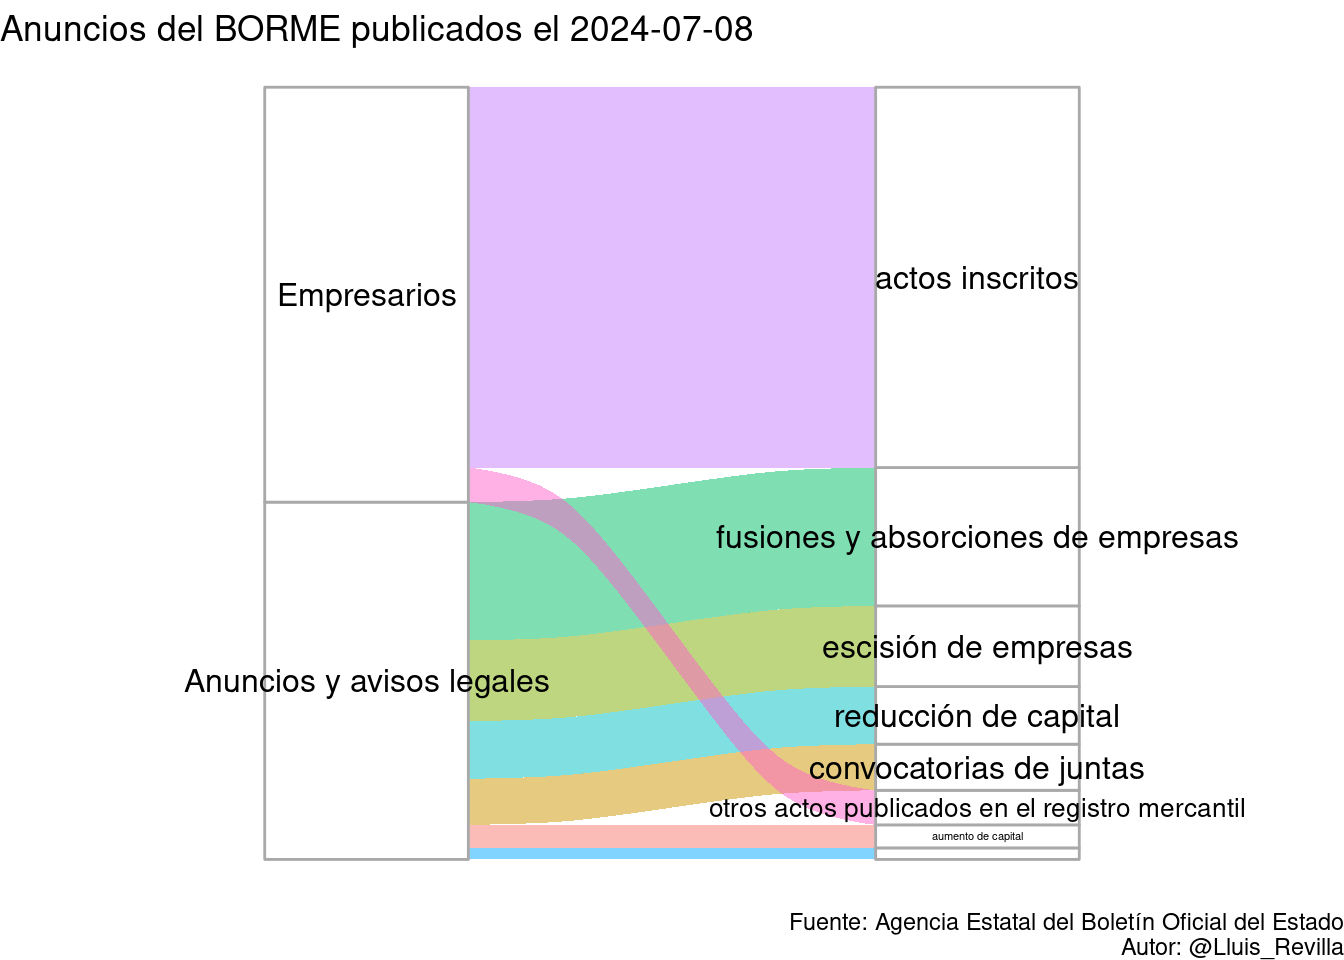
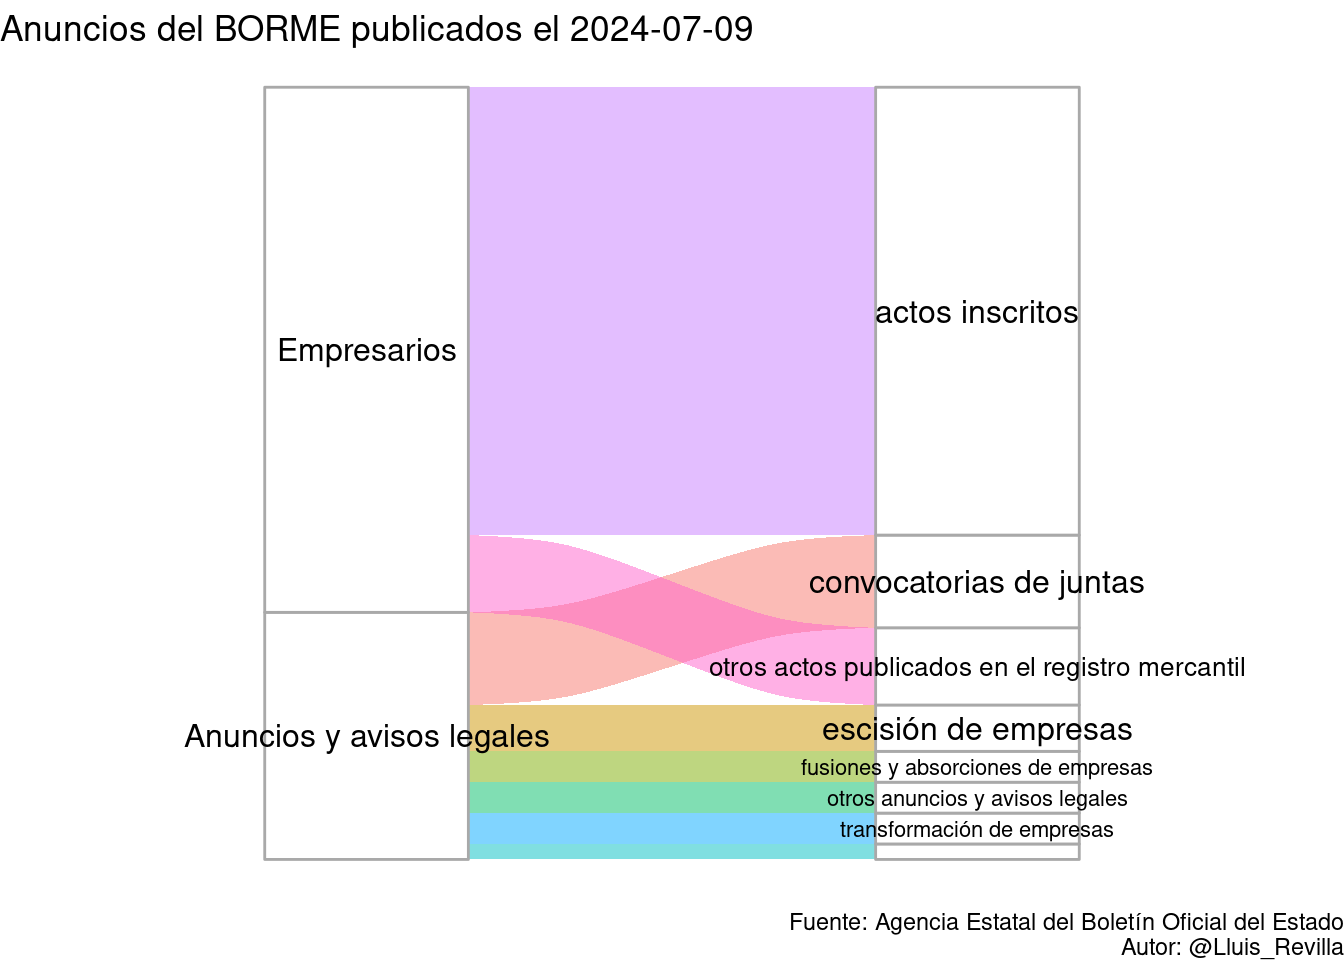
Update BORME

Changed region(s): [[0.125, 0.4688, 0.9375, 0.9062], [0.1875, 0.2812, 0.3438, 0.375], [0.6562, 0.2812, 0.8125, 0.3438]]

diff --git a/docs/last_BORME.html b/docs/last_BORME.html
@@ -379,14 +379,14 @@ $(document).ready(function () {
 
 <div id="resumen-gráfico" class="section level1">
 <h1>Resumen gráfico</h1>
-<p>Esta página web contiene el último sumario del BORME publicado el 2024-07-08 con 67 publicaciones.</p>
+<p>Esta página web contiene el último sumario del BORME publicado el 2024-07-09 con 50 publicaciones.</p>
 <p><img src="last_BORME_files/figure-html/graphics-1.png" width="672" /></p>
 </div>
 <div id="tabla-de-publicaciones" class="section level1">
 <h1>Tabla de publicaciones</h1>
 <p>Aquí está la tabla completa con enlaces a las publicaciones:</p>
-<div class="datatables html-widget html-fill-item-overflow-hidden html-fill-item" id="htmlwidget-dcfdce7b7cf2d7245e98" style="width:100%;height:auto;"></div>
-<script type="application/json" data-for="htmlwidget-dcfdce7b7cf2d7245e98">{"x":{"filter":"top","vertical":false,"filterHTML":"<tr>\n  <td><\/td>\n  <td data-type=\"character\" style=\"vertical-align: top;\">\n    <div class=\"form-group has-feedback\" style=\"margin-bottom: auto;\">\n      <input type=\"search\" placeholder=\"All\" class=\"form-control\" style=\"width: 100%;\"/>\n      <span class=\"glyphicon glyphicon-remove-circle form-control-feedback\"><\/span>\n    <\/div>\n  <\/td>\n  <td data-type=\"character\" style=\"vertical-align: top;\">\n    <div class=\"form-group has-feedback\" style=\"margin-bottom: auto;\">\n      <input type=\"search\" placeholder=\"All\" class=\"form-control\" style=\"width: 100%;\"/>\n      <span class=\"glyphicon glyphicon-remove-circle form-control-feedback\"><\/span>\n    <\/div>\n  <\/td>\n  <td data-type=\"character\" style=\"vertical-align: top;\">\n    <div class=\"form-group has-feedback\" style=\"margin-bottom: auto;\">\n      <input type=\"search\" placeholder=\"All\" class=\"form-control\" style=\"width: 100%;\" disabled=\"\"/>\n      <span class=\"glyphicon glyphicon-remove-circle form-control-feedback\"><\/span>\n    <\/div>\n  <\/td>\n  <td data-type=\"character\" style=\"vertical-align: top;\">\n    <div class=\"form-group has-feedback\" style=\"margin-bottom: auto;\">\n      <input type=\"search\" placeholder=\"All\" class=\"form-control\" style=\"width: 100%;\"/>\n      <span class=\"glyphicon glyphicon-remove-circle form-control-feedback\"><\/span>\n    <\/div>\n  <\/td>\n<\/tr>","data":[["1","2","3","4","5","6","7","8","9","10","11","12","13","14","15","16","17","18","19","20","21","22","23","24","25","26","27","28","29","30","31","32","33","34","35","36","37","38","39","40","41","42","43","44","45","46","47","48","49","50","51","52","53","54","55","56","57","58","59","60","61","62","63","64","65","66","67"],["SECCIÓN PRIMERA. Empresarios","SECCIÓN PRIMERA. Empresarios","SECCIÓN PRIMERA. Empresarios","SECCIÓN PRIMERA. Empresarios","SECCIÓN PRIMERA. Empresarios","SECCIÓN PRIMERA. Empresarios","SECCIÓN PRIMERA. Empresarios","SECCIÓN PRIMERA. Empresarios","SECCIÓN PRIMERA. Empresarios","SECCIÓN PRIMERA. Empresarios","SECCIÓN PRIMERA. Empresarios","SECCIÓN PRIMERA. Empresarios","SECCIÓN PRIMERA. Empresarios","SECCIÓN PRIMERA. Empresarios","SECCIÓN PRIMERA. Empresarios","SECCIÓN PRIMERA. Empresarios","SECCIÓN PRIMERA. Empresarios","SECCIÓN PRIMERA. Empresarios","SECCIÓN PRIMERA. Empresarios","SECCIÓN PRIMERA. Empresarios","SECCIÓN PRIMERA. Empresarios","SECCIÓN PRIMERA. Empresarios","SECCIÓN PRIMERA. Empresarios","SECCIÓN PRIMERA. Empresarios","SECCIÓN PRIMERA. Empresarios","SECCIÓN PRIMERA. Empresarios","SECCIÓN PRIMERA. Empresarios","SECCIÓN PRIMERA. Empresarios","SECCIÓN PRIMERA. Empresarios","SECCIÓN PRIMERA. Empresarios","SECCIÓN PRIMERA. Empresarios","SECCIÓN PRIMERA. Empresarios","SECCIÓN PRIMERA. Empresarios","SECCIÓN PRIMERA. Empresarios","SECCIÓN PRIMERA. Empresarios","SECCIÓN PRIMERA. Empresarios","SECCIÓN SEGUNDA. Anuncios y avisos legales","SECCIÓN SEGUNDA. Anuncios y avisos legales","SECCIÓN SEGUNDA. Anuncios y avisos legales","SECCIÓN SEGUNDA. Anuncios y avisos legales","SECCIÓN SEGUNDA. Anuncios y avisos legales","SECCIÓN SEGUNDA. Anuncios y avisos legales","SECCIÓN SEGUNDA. Anuncios y avisos legales","SECCIÓN SEGUNDA. Anuncios y avisos legales","SECCIÓN SEGUNDA. Anuncios y avisos legales","SECCIÓN SEGUNDA. Anuncios y avisos legales","SECCIÓN SEGUNDA. Anuncios y avisos legales","SECCIÓN SEGUNDA. Anuncios y avisos legales","SECCIÓN SEGUNDA. Anuncios y avisos legales","SECCIÓN SEGUNDA. Anuncios y avisos legales","SECCIÓN SEGUNDA. Anuncios y avisos legales","SECCIÓN SEGUNDA. Anuncios y avisos legales","SECCIÓN SEGUNDA. Anuncios y avisos legales","SECCIÓN SEGUNDA. Anuncios y avisos legales","SECCIÓN SEGUNDA. Anuncios y avisos legales","SECCIÓN SEGUNDA. Anuncios y avisos legales","SECCIÓN SEGUNDA. Anuncios y avisos legales","SECCIÓN SEGUNDA. Anuncios y avisos legales","SECCIÓN SEGUNDA. Anuncios y avisos legales","SECCIÓN SEGUNDA. Anuncios y avisos legales","SECCIÓN SEGUNDA. Anuncios y avisos legales","SECCIÓN SEGUNDA. Anuncios y avisos legales","SECCIÓN SEGUNDA. Anuncios y avisos legales","SECCIÓN SEGUNDA. Anuncios y avisos legales","SECCIÓN SEGUNDA. Anuncios y avisos legales","SECCIÓN SEGUNDA. Anuncios y avisos legales","SECCIÓN SEGUNDA. Anuncios y avisos legales"],["Actos inscritos","Actos inscritos","Actos inscritos","Actos inscritos","Actos inscritos","Actos inscritos","Actos inscritos","Actos inscritos","Actos inscritos","Actos inscritos","Actos inscritos","Actos inscritos","Actos inscritos","Actos inscritos","Actos inscritos","Actos inscritos","Actos inscritos","Actos inscritos","Actos inscritos","Actos inscritos","Actos inscritos","Actos inscritos","Actos inscritos","Actos inscritos","Actos inscritos","Actos inscritos","Actos inscritos","Actos inscritos","Actos inscritos","Actos inscritos","Actos inscritos","Actos inscritos","Actos inscritos","Otros actos publicados en el Registro Mercantil","Otros actos publicados en el Registro Mercantil","Otros actos publicados en el Registro Mercantil","CONVOCATORIAS DE JUNTAS","CONVOCATORIAS DE JUNTAS","CONVOCATORIAS DE JUNTAS","CONVOCATORIAS DE JUNTAS","FUSIONES Y ABSORCIONES DE EMPRESAS","FUSIONES Y ABSORCIONES DE EMPRESAS","FUSIONES Y ABSORCIONES DE EMPRESAS","FUSIONES Y ABSORCIONES DE EMPRESAS","FUSIONES Y ABSORCIONES DE EMPRESAS","FUSIONES Y ABSORCIONES DE EMPRESAS","FUSIONES Y ABSORCIONES DE EMPRESAS","FUSIONES Y ABSORCIONES DE EMPRESAS","FUSIONES Y ABSORCIONES DE EMPRESAS","FUSIONES Y ABSORCIONES DE EMPRESAS","FUSIONES Y ABSORCIONES DE EMPRESAS","FUSIONES Y ABSORCIONES DE EMPRESAS","ESCISIÓN DE EMPRESAS","ESCISIÓN DE EMPRESAS","ESCISIÓN DE EMPRESAS","ESCISIÓN DE EMPRESAS","ESCISIÓN DE EMPRESAS","ESCISIÓN DE EMPRESAS","ESCISIÓN DE EMPRESAS","TRANSFORMACIÓN DE EMPRESAS","AUMENTO DE CAPITAL","AUMENTO DE CAPITAL","REDUCCIÓN DE CAPITAL","REDUCCIÓN DE CAPITAL","REDUCCIÓN DE CAPITAL","REDUCCIÓN DE CAPITAL","REDUCCIÓN DE CAPITAL"],[null,null,null,null,null,null,null,null,null,null,null,null,null,null,null,null,null,null,null,null,null,null,null,null,null,null,null,null,null,null,null,null,null,null,null,null,null,null,null,null,null,null,null,null,null,null,null,null,null,null,null,null,null,null,null,null,null,null,null,null,null,null,null,null,null,null,null],["BORME-A-2024-130-02","BORME-A-2024-130-03","BORME-A-2024-130-04","BORME-A-2024-130-06","BORME-A-2024-130-07","BORME-A-2024-130-08","BORME-A-2024-130-09","BORME-A-2024-130-12","BORME-A-2024-130-15","BORME-A-2024-130-17","BORME-A-2024-130-18","BORME-A-2024-130-19","BORME-A-2024-130-22","BORME-A-2024-130-23","BORME-A-2024-130-24","BORME-A-2024-130-25","BORME-A-2024-130-26","BORME-A-2024-130-28","BORME-A-2024-130-29","BORME-A-2024-130-30","BORME-A-2024-130-31","BORME-A-2024-130-33","BORME-A-2024-130-34","BORME-A-2024-130-35","BORME-A-2024-130-36","BORME-A-2024-130-43","BORME-A-2024-130-44","BORME-A-2024-130-45","BORME-A-2024-130-46","BORME-A-2024-130-47","BORME-A-2024-130-50","BORME-A-2024-130-52","BORME-A-2024-130-99","BORME-B-2024-130-35","BORME-B-2024-130-46","BORME-B-2024-130-50","BORME-C-2024-4186","BORME-C-2024-4187","BORME-C-2024-4188","BORME-C-2024-4189","BORME-C-2024-4190","BORME-C-2024-4191","BORME-C-2024-4192","BORME-C-2024-4193","BORME-C-2024-4194","BORME-C-2024-4195","BORME-C-2024-4196","BORME-C-2024-4197","BORME-C-2024-4198","BORME-C-2024-4199","BORME-C-2024-4200","BORME-C-2024-4201","BORME-C-2024-4202","BORME-C-2024-4203","BORME-C-2024-4204","BORME-C-2024-4205","BORME-C-2024-4206","BORME-C-2024-4207","BORME-C-2024-4208","BORME-C-2024-4209","BORME-C-2024-4210","BORME-C-2024-4211","BORME-C-2024-4212","BORME-C-2024-4213","BORME-C-2024-4214","BORME-C-2024-4215","BORME-C-2024-4216"]],"container":"<table class=\"display\">\n  <thead>\n    <tr>\n      <th> <\/th>\n      <th>Sección<\/th>\n      <th>Emisor<\/th>\n      <th>Texto<\/th>\n      <th>Link<\/th>\n    <\/tr>\n  <\/thead>\n<\/table>","options":{"pageLength":10,"autoWidth":true,"columnDefs":[{"orderable":false,"targets":0},{"name":" ","targets":0},{"name":"Sección","targets":1},{"name":"Emisor","targets":2},{"name":"Texto","targets":3},{"name":"Link","targets":4}],"order":[],"orderClasses":false,"orderCellsTop":true}},"evals":[],"jsHooks":[]}</script>
+<div class="datatables html-widget html-fill-item-overflow-hidden html-fill-item" id="htmlwidget-87260b5c14312a98602e" style="width:100%;height:auto;"></div>
+<script type="application/json" data-for="htmlwidget-87260b5c14312a98602e">{"x":{"filter":"top","vertical":false,"filterHTML":"<tr>\n  <td><\/td>\n  <td data-type=\"character\" style=\"vertical-align: top;\">\n    <div class=\"form-group has-feedback\" style=\"margin-bottom: auto;\">\n      <input type=\"search\" placeholder=\"All\" class=\"form-control\" style=\"width: 100%;\"/>\n      <span class=\"glyphicon glyphicon-remove-circle form-control-feedback\"><\/span>\n    <\/div>\n  <\/td>\n  <td data-type=\"character\" style=\"vertical-align: top;\">\n    <div class=\"form-group has-feedback\" style=\"margin-bottom: auto;\">\n      <input type=\"search\" placeholder=\"All\" class=\"form-control\" style=\"width: 100%;\"/>\n      <span class=\"glyphicon glyphicon-remove-circle form-control-feedback\"><\/span>\n    <\/div>\n  <\/td>\n  <td data-type=\"character\" style=\"vertical-align: top;\">\n    <div class=\"form-group has-feedback\" style=\"margin-bottom: auto;\">\n      <input type=\"search\" placeholder=\"All\" class=\"form-control\" style=\"width: 100%;\" disabled=\"\"/>\n      <span class=\"glyphicon glyphicon-remove-circle form-control-feedback\"><\/span>\n    <\/div>\n  <\/td>\n  <td data-type=\"character\" style=\"vertical-align: top;\">\n    <div class=\"form-group has-feedback\" style=\"margin-bottom: auto;\">\n      <input type=\"search\" placeholder=\"All\" class=\"form-control\" style=\"width: 100%;\"/>\n      <span class=\"glyphicon glyphicon-remove-circle form-control-feedback\"><\/span>\n    <\/div>\n  <\/td>\n<\/tr>","data":[["1","2","3","4","5","6","7","8","9","10","11","12","13","14","15","16","17","18","19","20","21","22","23","24","25","26","27","28","29","30","31","32","33","34","35","36","37","38","39","40","41","42","43","44","45","46","47","48","49","50"],["SECCIÓN PRIMERA. Empresarios","SECCIÓN PRIMERA. Empresarios","SECCIÓN PRIMERA. Empresarios","SECCIÓN PRIMERA. Empresarios","SECCIÓN PRIMERA. Empresarios","SECCIÓN PRIMERA. Empresarios","SECCIÓN PRIMERA. Empresarios","SECCIÓN PRIMERA. Empresarios","SECCIÓN PRIMERA. Empresarios","SECCIÓN PRIMERA. Empresarios","SECCIÓN PRIMERA. Empresarios","SECCIÓN PRIMERA. Empresarios","SECCIÓN PRIMERA. Empresarios","SECCIÓN PRIMERA. Empresarios","SECCIÓN PRIMERA. Empresarios","SECCIÓN PRIMERA. Empresarios","SECCIÓN PRIMERA. Empresarios","SECCIÓN PRIMERA. Empresarios","SECCIÓN PRIMERA. Empresarios","SECCIÓN PRIMERA. Empresarios","SECCIÓN PRIMERA. Empresarios","SECCIÓN PRIMERA. Empresarios","SECCIÓN PRIMERA. Empresarios","SECCIÓN PRIMERA. Empresarios","SECCIÓN PRIMERA. Empresarios","SECCIÓN PRIMERA. Empresarios","SECCIÓN PRIMERA. Empresarios","SECCIÓN PRIMERA. Empresarios","SECCIÓN PRIMERA. Empresarios","SECCIÓN PRIMERA. Empresarios","SECCIÓN PRIMERA. Empresarios","SECCIÓN PRIMERA. Empresarios","SECCIÓN PRIMERA. Empresarios","SECCIÓN PRIMERA. Empresarios","SECCIÓN SEGUNDA. Anuncios y avisos legales","SECCIÓN SEGUNDA. Anuncios y avisos legales","SECCIÓN SEGUNDA. Anuncios y avisos legales","SECCIÓN SEGUNDA. Anuncios y avisos legales","SECCIÓN SEGUNDA. Anuncios y avisos legales","SECCIÓN SEGUNDA. Anuncios y avisos legales","SECCIÓN SEGUNDA. Anuncios y avisos legales","SECCIÓN SEGUNDA. Anuncios y avisos legales","SECCIÓN SEGUNDA. Anuncios y avisos legales","SECCIÓN SEGUNDA. Anuncios y avisos legales","SECCIÓN SEGUNDA. Anuncios y avisos legales","SECCIÓN SEGUNDA. Anuncios y avisos legales","SECCIÓN SEGUNDA. Anuncios y avisos legales","SECCIÓN SEGUNDA. Anuncios y avisos legales","SECCIÓN SEGUNDA. Anuncios y avisos legales","SECCIÓN SEGUNDA. Anuncios y avisos legales"],["Actos inscritos","Actos inscritos","Actos inscritos","Actos inscritos","Actos inscritos","Actos inscritos","Actos inscritos","Actos inscritos","Actos inscritos","Actos inscritos","Actos inscritos","Actos inscritos","Actos inscritos","Actos inscritos","Actos inscritos","Actos inscritos","Actos inscritos","Actos inscritos","Actos inscritos","Actos inscritos","Actos inscritos","Actos inscritos","Actos inscritos","Actos inscritos","Actos inscritos","Actos inscritos","Actos inscritos","Actos inscritos","Actos inscritos","Otros actos publicados en el Registro Mercantil","Otros actos publicados en el Registro Mercantil","Otros actos publicados en el Registro Mercantil","Otros actos publicados en el Registro Mercantil","Otros actos publicados en el Registro Mercantil","CONVOCATORIAS DE JUNTAS","CONVOCATORIAS DE JUNTAS","CONVOCATORIAS DE JUNTAS","CONVOCATORIAS DE JUNTAS","CONVOCATORIAS DE JUNTAS","CONVOCATORIAS DE JUNTAS","FUSIONES Y ABSORCIONES DE EMPRESAS","FUSIONES Y ABSORCIONES DE EMPRESAS","ESCISIÓN DE EMPRESAS","ESCISIÓN DE EMPRESAS","ESCISIÓN DE EMPRESAS","TRANSFORMACIÓN DE EMPRESAS","TRANSFORMACIÓN DE EMPRESAS","REDUCCIÓN DE CAPITAL","OTROS ANUNCIOS Y AVISOS LEGALES","OTROS ANUNCIOS Y AVISOS LEGALES"],[null,null,null,null,null,null,null,null,null,null,null,null,null,null,null,null,null,null,null,null,null,null,null,null,null,null,null,null,null,null,null,null,null,null,null,null,null,null,null,null,null,null,null,null,null,null,null,null,null,null],["BORME-A-2024-131-02","BORME-A-2024-131-03","BORME-A-2024-131-06","BORME-A-2024-131-07","BORME-A-2024-131-08","BORME-A-2024-131-12","BORME-A-2024-131-13","BORME-A-2024-131-14","BORME-A-2024-131-15","BORME-A-2024-131-17","BORME-A-2024-131-18","BORME-A-2024-131-21","BORME-A-2024-131-23","BORME-A-2024-131-24","BORME-A-2024-131-27","BORME-A-2024-131-28","BORME-A-2024-131-29","BORME-A-2024-131-30","BORME-A-2024-131-31","BORME-A-2024-131-35","BORME-A-2024-131-36","BORME-A-2024-131-38","BORME-A-2024-131-40","BORME-A-2024-131-41","BORME-A-2024-131-45","BORME-A-2024-131-46","BORME-A-2024-131-47","BORME-A-2024-131-48","BORME-A-2024-131-99","BORME-B-2024-131-20","BORME-B-2024-131-27","BORME-B-2024-131-28","BORME-B-2024-131-29","BORME-B-2024-131-51","BORME-C-2024-4217","BORME-C-2024-4218","BORME-C-2024-4219","BORME-C-2024-4220","BORME-C-2024-4221","BORME-C-2024-4222","BORME-C-2024-4223","BORME-C-2024-4224","BORME-C-2024-4225","BORME-C-2024-4226","BORME-C-2024-4227","BORME-C-2024-4228","BORME-C-2024-4229","BORME-C-2024-4230","BORME-C-2024-4231","BORME-C-2024-4232"]],"container":"<table class=\"display\">\n  <thead>\n    <tr>\n      <th> <\/th>\n      <th>Sección<\/th>\n      <th>Emisor<\/th>\n      <th>Texto<\/th>\n      <th>Link<\/th>\n    <\/tr>\n  <\/thead>\n<\/table>","options":{"pageLength":10,"autoWidth":true,"columnDefs":[{"orderable":false,"targets":0},{"name":" ","targets":0},{"name":"Sección","targets":1},{"name":"Emisor","targets":2},{"name":"Texto","targets":3},{"name":"Link","targets":4}],"order":[],"orderClasses":false,"orderCellsTop":true}},"evals":[],"jsHooks":[]}</script>
 </div>
 
 
